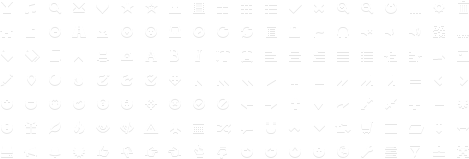
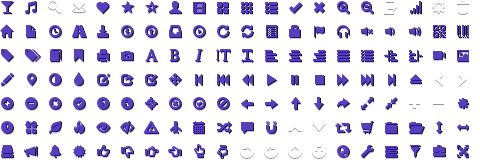
[#46817017] Skinned: - the general layout - Language; - Check instalation conditions - Choose database type

diff --git a/modules/install/tpl/form.mysqli.html b/modules/install/tpl/form.mysqli.html
@@ -6,19 +6,48 @@
         <button type="button" class="close" data-dismiss="alert">&times;</button>
         <p>{$XE_VALIDATOR_MESSAGE}</p>
     </div>
-    <form rule="mysql" action="./" method="post">
+    <form rule="mysql" action="./" method="post" class="form form-horizontal">
     <input type="hidden" value="{getUrl('', 'act', $act, 'db_type', $db_type)}" name="error_return_url">
     <input type="hidden" name="act" value="procMysqlDBSetting" />
     <input type="hidden" name="db_type" value="{$db_type}" />
         <h2>{$db_type}</h2>
-        <ul class="formDbInfo unstyled">
-            <li><label for="dbHostName">{$lang->db_hostname}</label><input name="db_hostname" value="localhost" type="text" class="iText" id="dbHostName" /></li>
-            <li><label for="dbPort">{$lang->db_port}</label><input name="db_port" value="3306" type="text" class="iText" id="dbPort" /></li>
-            <li><label for="dbId">{$lang->db_userid}</label><input name="db_userid" type="text" class="iText" id="dbId" /></li>
-            <li><label for="dbPw">{$lang->db_password}</label><input name="db_password" type="password" class="iText" id="dbPw" /></li>
-            <li><label for="dbName">{$lang->db_database}</label><input name="db_database" type="text" class="iText" id="dbName" /></li>
-            <li><label for="dbPrefix">{$lang->db_table_prefix}</label><input name="db_table_prefix" type="text" class="iText" id="dbPrefix" value="k" /></li>
-        </ul>
+        <div class="control-group">
+            <label for="dbHostName" class="control-label">{$lang->db_hostname}</label>
+            <div class="controls">
+                <input name="db_hostname" value="localhost" type="text" class="iText" id="dbHostName" />
+            </div>
+        </div>
+        <div class="control-group">
+            <label for="dbPort" class="control-label">{$lang->db_port}</label>
+            <div class="controls">
+                <input name="db_port" value="3306" type="text" class="iText" id="dbPort" />
+            </div>
+        </div>
+        <div class="control-group">
+            <label for="dbId" class="control-label">{$lang->db_userid}</label>
+            <div class="controls">
+                <input name="db_userid" type="text" class="iText" id="dbId" />
+            </div>
+        </div>
+        <div class="control-group">
+            <label for="dbPw" class="control-label">{$lang->db_password}</label>
+            <div class="controls">
+                <input name="db_password" type="password" class="iText" id="dbPw" />
+            </div>
+        </div>
+        <div class="control-group">
+            <label for="dbName" class="control-label">{$lang->db_database}</label>
+            <div class="controls">
+                <input name="db_database" type="text" class="iText" id="dbName" />
+            </div>
+        </div>
+        <div class="control-group">
+            <label for="dbPrefix" class="control-label">{$lang->db_table_prefix}</label>
+            <div class="controls">
+                <input name="db_table_prefix" type="text" class="iText" id="dbPrefix" value="k" />
+            </div>
+        </div>
+
         <div class="help-block">{$lang->db_info_desc}</div>
         <div>
             <div class="pull-left">

diff --git a/modules/install/tpl/css/install.css b/modules/install/tpl/css/install.css
@@ -2,13 +2,171 @@
 
 body {
     margin: 0;
+    background: #1d212a url("../img/install-bg.png");
+}
+
+#progress,
+#content {
+    text-shadow: 0px -1px 0px #ffffff;
+}
+
+#languages-list li,
+.formDbSelect li {
+    position:relative;
+    margin:0 1.527659574468085% 10px 0!important;
+}
+
+#languages-list li a,
+#languages-list li strong,
+.formDbSelect li label {
+    display: block;
+    padding: 16px 16px 16px 24px!important;
+    border: 1px solid #ddd;
+    border-radius: 5px;;
+    font-size: 14px;
+    line-height: 20px;
+    color: #2e5587;
+}
+
+.formDbSelect li label.disabled {
+    color: #999999!important;
+    font-weight: normal!important;
+    background: none!important;
+    cursor: default;
+}
+
+
+
+#languages-list li strong {
     background: #fff;
 }
 
-#languages-list li {
-    position:relative; margin:0 0 4px 0"
+.formDbSelect li .active {
+    background: #ffffff;
+    color: #000000;
+    font-weight: bold;
 }
 
-#languages-list .selected-language {
-    position:absolute;top:0;left:-16px;font-style:normal;font-weight:bold;color:red
+.formDbSelect li i {
+    display: none;
+}
+
+.formDbSelect li .active i {
+    display: inline;
+}
+
+#languages-list .selected-language,
+.formDbSelect .selected-language {
+    position:absolute;
+    top:17px;
+    left:10px;
+    font-style:normal;
+    font-weight:normal;
+}
+
+input[type="radio"].js {
+    display: none;
+}
+
+#header {
+    background: #1d212a url("../img/install-bg.png");
+    margin: 0 0 20px;
+    padding: 20px;
+    color: #ffffff;
+    box-shadow:inset 0px 0px 10px 0px rgba(0,0,0,0.4)
+}
+
+
+#header em {
+    padding-top: 30px;
+    display: block;
+    color: #8ac64f;
+}
+
+
+
+.container {
+    padding: 20px;
+    background: rgba(255,255,255,0.95);
+    margin: 40px auto;
+    -moz-border-radius: 5px;
+    -webkit-border-radius: 5px;
+    border-radius: 5px;
+    box-shadow: 0px 5px 40px 0px rgba(0, 0, 0, .2);
+}
+
+
+.table-bordered,
+.table-bordered td,
+.table-bordered th {
+    border-color: #cccccc;
+}
+
+.table .success .status {
+    color: #45a211;
+}
+
+.table .error .status {
+    color: #c40202;
+}
+
+.table .warning .status {
+    color: #983e08;
+}
+
+
+
+#progress li {
+    position: relative;
+}
+
+#progress li.active:after {
+    position: absolute;
+    content:"";
+    width: 0px;
+    height: 0px;
+    border-style: solid;
+    border-width: 8px 0 8px 8px;
+    border-color: transparent transparent transparent #007bff;
+    margin-top: -26px;
+    right: -7px;
+}
+
+#progress li.active:before {
+    position: absolute;
+    content:"";
+    width: 0px;
+    height: 0px;
+    border-style: solid;
+    border-width: 9px 0 9px 9px;
+    border-color: transparent transparent transparent #dddddd;
+    margin-top: 11px;
+    right: -9px;
+}
+
+#progress li.active:after {
+    position: absolute;
+    content:"";
+    width: 0px;
+    height: 0px;
+    border-style: solid;
+    border-width: 8px 0 8px 8px;
+    border-color: transparent transparent transparent #ffffff;
+    margin-top: -26px;
+    right: -7px;
+
+}
+
+
+#progress > ul {
+
+    -webkit-border-radius:5px;
+    border-radius:5px;
+    background: #f9f9f9;
+}
+
+.tooltip-inner {
+    -moz-text-shadow: none;
+    -webkit-text-shadow: none;
+    text-shadow: none;
 }

diff --git a/modules/install/tpl/select_db.html b/modules/install/tpl/select_db.html
@@ -5,25 +5,29 @@
     <form method="post" action="./">
     <input type="hidden" name="module" value="{$module}" />
     <input type="hidden" name="act" value="dispInstallDBForm" />
-        <ul class="formDbSelect unstyled">
+        <div class="row-fluid">
+        <ul class="formDbSelect unstyled span12">
             <!--@foreach(DB::getEnableList() as $key => $val)-->
-            <li>
-                <label for="db_type_{$val->db_type}" class="radio inline">
+            <li class="span3">
+                <label for="db_type_{$val->db_type}" class="radio inline span12"  data-toggle="tooltip" data-html="true" data-placement="top" title="{$lang->db_desc[$val->db_type]}">
+                    <i class="selected-language" title="Selected Database">&#10004;</i>
                     <input name="db_type" type="radio" value="{$val->db_type}" <!--@if(!$val->enable)-->disabled="disabled"<!--@end--> id="db_type_{$val->db_type}" <!--@if($val->db_type=="mysql")-->checked="checked"<!--@end--> class="iRadio" id="cubrid" />
                     {$val->db_type}
                 </label>
-                <p class="help-block">{$lang->db_desc[$val->db_type]}</p>
+
             </li>
             <!--@end-->
             <!--@foreach(DB::getDisableList() as $key => $val)-->
-            <li>
-                <label for="db_type_{$val->db_type}" class="radio inline">
+            <li class="span3">
+                <label for="db_type_{$val->db_type}" class="radio inline span12">
                     <input name="db_type" type="radio" value="{$val->db_type}" <!--@if(!$val->enable)-->disabled="disabled"<!--@end--> id="db_type_{$val->db_type}" <!--@if($val->db_type=="mysql")-->checked="checked"<!--@end--> class="iRadio" id="cubrid" />
                     {$val->db_type}
                 </label>
-                <p class="help-block">{$lang->db_desc[$val->db_type]}</p>
+
             </li>
+
             <!--@end-->
+        </div>
         </ul>
         <div>
             <div class="pull-left">
@@ -35,5 +39,4 @@
         </div>
     </form>
 </div>
-
 <include target="footer.html" />

diff --git a/modules/install/tpl/introduce.html b/modules/install/tpl/introduce.html
@@ -2,15 +2,16 @@
 <include target="header.html" />
 
 <div class="agreement">
-    <ul class="unstyled" id="languages-list">
-        <li loop="$lang_supported=>$key,$val">
-            <i cond="$l==$key" class="selected-language" title="Selected Language">&#10004;</i>
-            <a href="{getUrl('l', $key)}" cond="$l!=$key">{$val}</a>
-            <strong cond="$l==$key">{$val}</strong>
-        </li>
-    </ul>
-
-    <div>
+    <div class="row-fluid">
+        <ul class="unstyled span12" id="languages-list">
+            <li loop="$lang_supported=>$key,$val" class="span3">
+                <i cond="$l==$key" class="selected-language" title="Selected Language">&#10004;</i>
+                <a href="{getUrl('l', $key)}" cond="$l!=$key">{$val}</a>
+                <strong cond="$l==$key">{$val}</strong>
+            </li>
+        </ul>
+    </div>
+    <div class="row-fluid">
         <div class="pull-right">
             <a href="{getUrl('', 'act', 'dispInstallCheckEnv')}" class="btn btn-primary">{$lang->cmd_next}</a>
         </div>

diff --git a/modules/install/tpl/check_env.html b/modules/install/tpl/check_env.html
@@ -1,12 +1,11 @@
 <include target="header.html" />
 
-<div id="content" class="span9">
-    <table class="table">
+    <table class="table table-bordered">
         <tbody>
             <!--@foreach($checklist as $key => $val)-->
             <tr <!--@if($val)-->class="success"<!--@else-->class="error"<!--@end-->>
                 <td>{$lang->install_checklist_title[$key]}<!--@if($key == 'php_version')--> (Ver. {$phpversion})<!--@end--></td>
-                <td><!--@if($val)-->{$lang->enable}<!--@else--><strong>{$lang->disable}</strong><br />{$lang->install_checklist_desc[$key]}<!--@end--></td>
+                <td class="status"><!--@if($val)-->{$lang->enable}<!--@else--><strong>{$lang->disable}</strong><br />{$lang->install_checklist_desc[$key]}<!--@end--></td>
             </tr>
             <!--@end-->
         </tbody>
@@ -25,5 +24,7 @@
         </div>
     </div>
 </div>
-
+<script>
+    $("a.active").parents('li').css("property", "value");
+</script>
 <include target="footer.html" />

diff --git a/modules/install/tpl/header.html b/modules/install/tpl/header.html
@@ -1,12 +1,19 @@
 <load target="css/bootstrap.min.css" xmlns="http://www.w3.org/1999/html"/>
 <load target="js/bootstrap.js" />
 <load target="css/install.css" />
+<load target="../../admin/tpl/css/admin.css" />
 
 <div class="container">
-	<div id="header" class="span12">
-		<h1><img src="img/karybu.png" alt="Karybu" />Karybu</h1>
-		<em>Version <strong>{__KARYBU_VERSION__}</strong> {$lang->introduce_title}</em>
+	<div id="header">
+        <div class="row-fluid">
+            <div class="span3">
+                <h1><img src="img/karybu.png" alt="Karybu" /></h1>
+            </div>
+            <div class="span9">
+                <em>Version <strong>{__KARYBU_VERSION__}</strong> {$lang->introduce_title}</em>
+            </div>
+        </div>
 	</div>
-    <div class="row">
+    <div class="row-fluid">
         <include target="progress_menu.html" />
         <div id="content" class="span9">

diff --git a/modules/install/tpl/js/install_admin.js b/modules/install/tpl/js/install_admin.js
@@ -143,3 +143,26 @@ function completeGetFtpInfo(ret_obj)
     //list = "<td><ul>"+list+"</ul></td>";
     e.append(jQuery(list));
 }
+jQuery(document).ready(function($){
+    $('body').tooltip({
+        selector: "label[data-toggle=tooltip]"
+    })
+
+    $('.formDbSelect input[type="radio"], .formDbSelect label').addClass('js');
+
+
+
+    $(".formDbSelect input:disabled").closest('label').addClass("disabled");
+
+    $(".formDbSelect input:enabled").closest('label').addClass("enabled");
+
+
+    $('.formDbSelect label.enabled').on('click', function() {
+        $('.formDbSelect label').removeClass('active');
+        $(this).addClass('active');
+    });
+
+});
+
+
+

diff --git a/modules/install/tpl/progress_menu.html b/modules/install/tpl/progress_menu.html
@@ -10,10 +10,10 @@
 
 {@ $current_step = $steps[$act.$progressMenu]; }
 
-<div id="progress" class="span3">
+<div id="progress" class="span3 cnb">
 	<ul class="nav nav-tabs nav-stacked">
 		<li class="active"|cond="$act==''">
-            <a href="{getUrl('act', '')}">{$lang->install_progress_menu['language']}<i class="icon-chevron-right" cond="$act==''"></i></a>
+            <a href="{getUrl('act', '')}">{$lang->install_progress_menu['language']}</a>
         </li>
 		<li class="active"|cond="$act=='dispInstallCheckEnv'" class="disabled"|cond="$current_step<2">
             {@ $url = ($current_step <2 ? '#' : getUrl('act', 'dispInstallCheckEnv')); }

diff --git a/modules/install/install.view.php b/modules/install/install.view.php
@@ -24,6 +24,7 @@
             $oInstallController = &getController('install');
             $this->install_enable = $oInstallController->checkInstallEnv();
             // If the environment is installable, execute installController::makeDefaultDirectory()
+            Context::addBodyClass('installer');
             if($this->install_enable) $oInstallController->makeDefaultDirectory();
         }
 
